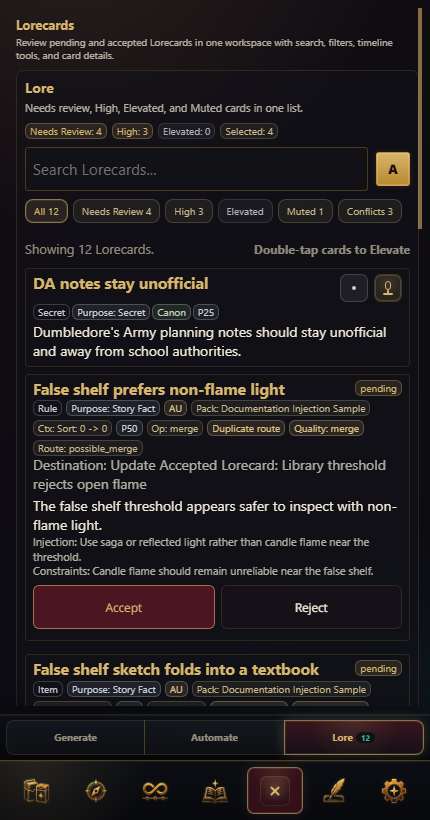
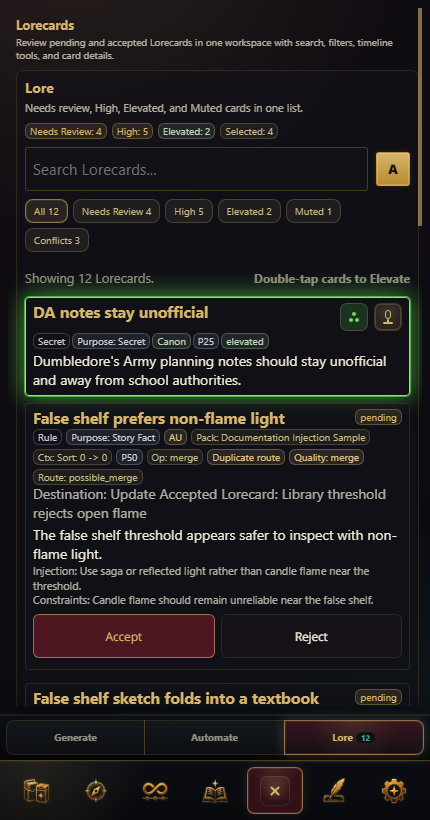
Consolidate Story Opener into a mobile dropdown

Changed region(s): [[0.0302, 0.2744, 0.9977, 0.8841], [0.5442, 0.2439, 0.9372, 0.2744], [0.3628, 0.1524, 0.4837, 0.1829]]

diff --git a/src/runtime/advanced-runtime-panel.js b/src/runtime/advanced-runtime-panel.js
@@ -52,6 +52,23 @@ function markTourTarget(element, target) { return dep('markTourTarget', value =>
 function refreshPanelBody(options = {}) { return dep('refreshPanelBody', () => null)(options); }
 function refreshHeader() { return dep('refreshHeader', () => null)(); }
 
+function createStoryOpenerSessionSection(state, options = {}) {
+    const sectionId = options.sectionId || 'session.storyOpener';
+    const storyOpenerSection = createCollapsibleSection(
+        sectionId,
+        'Story Opener Creator',
+        'Create, revise, and copy lore-aware opening prose from the active Saga setup.',
+        options.defaultOpen === true,
+        createStoryOpenerCreatorSection(state, { refreshPanelBody, markTourTarget }),
+        {
+            tooltip: 'Use active Loredecks, Context, and accepted Lorecards to build a first message or chat opener through the Reasoning Provider.',
+            className: 'saga-story-opener-section',
+        }
+    );
+    markTourTarget(storyOpenerSection, 'session.storyOpener');
+    return storyOpenerSection;
+}
+
 function setAutomationMode(mode) {
     const normalized = normalizeAutomationMode(mode);
     const settings = getSettings();
@@ -105,7 +122,10 @@ export function renderSessionTab(container, state) {
         basic ? 'Review Session Readiness and runtime state for this chat.' : 'Set how Saga behaves during roleplay.'
     ));
     container.appendChild(createSessionOperatorSummary(state, settings, { basic, guideMode, mobileSubview }));
-    if (isRuntimeMobileShell() && !mobileSubview) return;
+    if (isRuntimeMobileShell() && !mobileSubview) {
+        container.appendChild(createStoryOpenerSessionSection(state, { sectionId: 'session.storyOpener.mobile' }));
+        return;
+    }
 
     const toggles = document.createElement('div');
     toggles.className = 'saga-runtime-grid';
@@ -124,7 +144,7 @@ export function renderSessionTab(container, state) {
     container.appendChild(toggles);
 
     if (isRuntimeMobileShell() && mobileSubview?.id === 'session-story-opener') {
-        container.appendChild(createStoryOpenerCreatorSection(state, { refreshPanelBody, markTourTarget }));
+        container.appendChild(createStoryOpenerSessionSection(state, { sectionId: 'session.storyOpener.mobile', defaultOpen: true }));
         return;
     }
 
@@ -179,19 +199,7 @@ export function renderSessionTab(container, state) {
     }
 
     if (!isRuntimeMobileShell()) {
-        const storyOpenerSection = createCollapsibleSection(
-            'session.storyOpener',
-            'Story Opener Creator',
-            'Create, revise, and copy lore-aware opening prose from the active Saga setup.',
-            false,
-            createStoryOpenerCreatorSection(state, { refreshPanelBody, markTourTarget }),
-            {
-                tooltip: 'Use active Loredecks, Context, and accepted Lorecards to build a first message or chat opener through the Reasoning Provider.',
-                className: 'saga-story-opener-section',
-            }
-        );
-        markTourTarget(storyOpenerSection, 'session.storyOpener');
-        container.appendChild(storyOpenerSection);
+        container.appendChild(createStoryOpenerSessionSection(state));
     }
 
     const instructionsSection = createCollapsibleSection(
@@ -236,13 +244,6 @@ function openSessionMobileDetails() {
     pushRuntimeMobileSubview('session', {
         id: 'session-details',
         title: 'Session Details',
-    });
-}
-
-function openSessionMobileStoryOpener() {
-    pushRuntimeMobileSubview('session', {
-        id: 'session-story-opener',
-        title: 'Story Opener',
     });
 }
 
@@ -332,14 +333,6 @@ function createSessionOperatorSummary(state, settings, options = {}) {
             refreshPanelBody({ preserveScroll: false });
             refreshHeader();
         }, 'saga-primary-button'));
-    }
-    if (mobileRoot) {
-        actions.appendChild(createButton(
-            'Story Opener',
-            'Open Story Opener Creator for this Saga setup.',
-            () => openSessionMobileStoryOpener(),
-            'saga-primary-button'
-        ));
     }
     actions.appendChild(createButton(
         basic ? 'Start Guided Tour' : 'Start Walkthrough',

diff --git a/src/runtime/story-opener-panel.js b/src/runtime/story-opener-panel.js
@@ -428,7 +428,13 @@ function createStoryOpenerStageBar(session = {}, state = {}, options = {}) {
                 if (stage.dependency) toast(stage.dependency, 'info');
                 return;
             }
-            document.querySelector(`[data-story-opener-anchor="${stage.anchor}"]`)?.scrollIntoView?.({ behavior: 'smooth', block: 'start' });
+            const next = normalizeStoryOpenerSession({
+                ...session,
+                currentStage: stage.id,
+                updatedAt: Date.now(),
+            });
+            saveStoryOpenerSession(next);
+            refresh({ ...options, preserveScroll: false });
         });
         const number = document.createElement('span');
         number.className = 'saga-loredeck-creator-stage-number';
@@ -468,6 +474,24 @@ function createStoryOpenerStageBar(session = {}, state = {}, options = {}) {
     }
     wrap.appendChild(list);
     return wrap;
+}
+
+function getVisibleStoryOpenerStage(session = {}) {
+    const normalized = normalizeStoryOpenerSession(session);
+    const stages = getStoryOpenerStageDescriptors(normalized);
+    return stages.find(stage => stage.id === normalized.currentStage && stage.status !== 'locked')
+        || stages.find(stage => stage.isActive && stage.status !== 'locked')
+        || stages.find(stage => stage.status !== 'locked')
+        || stages[0]
+        || null;
+}
+
+function createStoryOpenerStageCard(stageId = '', session = {}, state = {}, options = {}) {
+    if (stageId === 'context_packet') return createPacketCard(session, state, options);
+    if (stageId === 'opener_brief') return createBriefCard(session, state, options);
+    if (stageId === 'draft_variants') return createVariantsCard(session, state, options);
+    if (stageId === 'review_copy') return createReviewCard(session, state, options);
+    return createInputsCard(session, state, options);
 }
 
 function appendSourceActions(container, session = {}, state = {}, options = {}) {
@@ -900,6 +924,7 @@ function createSessionShelf(index = {}, state = {}, options = {}) {
 
 function renderActiveSession(container, session = {}, state = {}, options = {}) {
     const readiness = getStoryOpenerReadiness(session);
+    const visibleStage = getVisibleStoryOpenerStage(session);
     const header = document.createElement('div');
     header.className = 'saga-story-opener-active-header';
     const titleWrap = document.createElement('div');
@@ -922,11 +947,7 @@ function renderActiveSession(container, session = {}, state = {}, options = {}) 
     container.appendChild(createStoryOpenerStageBar(session, state, options));
     const failureCard = createFailureCard(session);
     if (failureCard) container.appendChild(failureCard);
-    container.appendChild(createInputsCard(session, state, options));
-    container.appendChild(createPacketCard(session, state, options));
-    container.appendChild(createBriefCard(session, state, options));
-    container.appendChild(createVariantsCard(session, state, options));
-    container.appendChild(createReviewCard(session, state, options));
+    container.appendChild(createStoryOpenerStageCard(visibleStage?.id || 'inputs', session, state, options));
 }
 
 export function createStoryOpenerCreatorSection(state = {}, options = {}) {

diff --git a/src/story-openers/story-opener-state.js b/src/story-openers/story-opener-state.js
@@ -396,6 +396,7 @@ export function getStoryOpenerStageDescriptors(session = {}) {
             status = 'error';
         }
         if (status === 'locked' && !dependency) dependency = 'Complete the previous stage first.';
+        const isCurrentStage = normalized.currentStage === stage.id && status !== 'locked';
         return {
             ...stage,
             index,
@@ -403,7 +404,7 @@ export function getStoryOpenerStageDescriptors(session = {}) {
             status,
             dependency,
             isComplete: status === 'approved',
-            isActive: status === 'active' || status === 'generating',
+            isActive: isCurrentStage || status === 'active' || status === 'generating',
             resettable: index > 0 && index < STORY_OPENER_STAGE_ORDER.length - 1 && status !== 'locked',
         };
     });

diff --git a/src/runtime/runtime-shell-view.js b/src/runtime/runtime-shell-view.js
@@ -327,10 +327,8 @@ function hideRuntimeMobileShell() {
 function renderMobileShellActionBar(state, settings = getSettings()) {
     const panelState = state?.lorePanel || getDefaultState().lorePanel;
     const mobile = normalizeMobilePanelState(panelState, settings);
-    const activeSubview = getRuntimeMobileActiveSubview(panelState, mobile.activeRoute, settings);
     const canGoBack = canGoBackRuntimeMobileShell(panelState, settings);
     if (mobile.activeRoute === 'loredecks') return null;
-    if (activeSubview?.id === 'session-story-opener') return null;
     if (!canGoBack) return null;
 
     const bar = document.createElement('div');